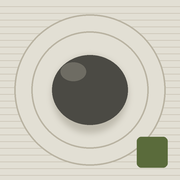
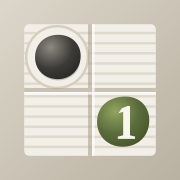
アイコンを石と苔石の盤面に描き直し、「砂を均す」ボタンを削除
- icon.svg / icon-192 / icon-512 / maskable / apple-touch-icon を新デザインに差し替え
- 「砂を均す」ボタンと処理・説明文を削除し、スマホの道具欄を4列に
- インラインスクリプト変更に合わせてCSPのハッシュを更新
- service worker のキャッシュ名を v15 に更新

Claude-Session: https://claude.ai/code/session_01UMforfYq9WVsmKnawKrVXK

diff --git a/index.html b/index.html
@@ -3,7 +3,7 @@
 <head>
 <meta charset="utf-8">
 <meta name="viewport" content="width=device-width,initial-scale=1,viewport-fit=cover">
-<meta http-equiv="Content-Security-Policy" content="default-src 'self'; script-src 'sha256-kA0saZx0/eXsGigQ1LUfOseUjm2kz5fM5gOweCz8D54=' 'sha256-6m2UkkkguhqR6+ykFUPsmwKgebcGYNutMPv6bQDLWUM=' 'sha256-ltzjt/rcC3yGTR6kitQ+BYvtbG0mJyRpSytI21dc3fQ=' 'sha256-+R7pnIRLI8kfmf7xP1w2nuLk8AT3VVh1wG8szeXnAw8='; worker-src 'self' blob:; child-src 'self' blob:; style-src 'self' 'unsafe-inline' https://fonts.googleapis.com; font-src https://fonts.gstatic.com; img-src 'self' data:; connect-src 'self' https://fonts.googleapis.com https://fonts.gstatic.com; manifest-src 'self'; object-src 'none'; base-uri 'none'; form-action 'none'">
+<meta http-equiv="Content-Security-Policy" content="default-src 'self'; script-src 'sha256-kA0saZx0/eXsGigQ1LUfOseUjm2kz5fM5gOweCz8D54=' 'sha256-6m2UkkkguhqR6+ykFUPsmwKgebcGYNutMPv6bQDLWUM=' 'sha256-wQugApye2pwf3+5ialD52HTU8hmzUDu2wc6N5UuWSWg=' 'sha256-+R7pnIRLI8kfmf7xP1w2nuLk8AT3VVh1wG8szeXnAw8='; worker-src 'self' blob:; child-src 'self' blob:; style-src 'self' 'unsafe-inline' https://fonts.googleapis.com; font-src https://fonts.gstatic.com; img-src 'self' data:; connect-src 'self' https://fonts.googleapis.com https://fonts.gstatic.com; manifest-src 'self'; object-src 'none'; base-uri 'none'; form-action 'none'">
 <meta name="referrer" content="no-referrer">
 <meta name="description" content="苔の数字を手がかりに、庭に石を据える論理パズル。どの問題も推理だけで解けます。">
 <meta name="theme-color" content="#fbfaf7">
@@ -332,7 +332,7 @@ aside p{margin:0}
   .veil.solid{inset:6px}
   .coords-top{padding-inline:6px}
   .coords-right{padding-block:6px}
-  .tools{flex-shrink:0;display:grid;grid-template-columns:1.25fr 1fr 1fr 1.1fr 1fr;gap:5px}
+  .tools{flex-shrink:0;display:grid;grid-template-columns:1.25fr 1fr 1fr 1.1fr;gap:5px}
   .tools .btn{font-size:13px;padding:0 2px;min-height:46px;justify-content:center;gap:5px;white-space:nowrap;letter-spacing:.02em}
   .tools .btn.two{gap:1px}
   .tools .btn{font-size:12.5px;letter-spacing:0}
@@ -412,7 +412,6 @@ button{touch-action:manipulation}
       <button class="btn" id="undoBtn" title="一手戻す (Z)">一手戻す <kbd>Z</kbd></button>
       <button class="btn two" id="pauseBtn" title="パズルを一時停止 (P)"><span>休憩</span><small>パズルを一時停止</small></button>
       <button class="btn two" id="hintBtn" title="次に推理できる一手を教わる"><span>教えを乞う</span><small>ヒントを貰う</small></button>
-      <button class="btn two" id="resetBtn" title="盤上の印をすべて消す"><span>砂を均す</span><small>印を全消し</small></button>
     </div>
   </main>
 
@@ -474,7 +473,7 @@ button{touch-action:manipulation}
         <div class="sw"><div class="d"></div></div><span>右クリック、または「印」モードで「石なし」の印。なぞると続けて付けられます</span>
         <div class="sw c">3</div><span>石が数ぶん揃うと薄くなり、多すぎると赤くなる</span>
       </div>
-      <p class="small" style="margin-top:8px">「砂を均す」は盤上の印をすべて消します（石はそのまま）。<br>「一手戻す」で元に戻せます。<br>「休憩」を押すと、盤面を隠してタイマーを止められます。</p>
+      <p class="small" style="margin-top:8px">「一手戻す」で直前の操作を元に戻せます。<br>「休憩」を押すと、盤面を隠してタイマーを止められます。</p>
       <p class="small" style="margin-top:8px">盤の上と右の小さな丸は、その列・行に置いた石の数です。</p>
       <p class="small" style="margin-top:4px">マスの呼び方は将棋盤と同じです。<br>上の数字が列（右から1、2…）、右の漢数字が行（上から一、二…）で、<br>「1二」は右端の列の上から2マス目です。</p>
     </section>
@@ -1290,10 +1289,6 @@ function pauseGame(){
   $('resumeBtn').onclick=()=>{S.started=true;hideVeil();startClock();};
 }
 $('pauseBtn').onclick=pauseGame;
-// 砂を均す: rake away every mark; stones stay where they are
-$('resetBtn').onclick=()=>{if(!S||S.done||!S.started)return;const ch=[];S.cells.forEach((v,i)=>{if(v===2)ch.push([i,0]);});
-  if(ch.length){apply(ch);Sound.play('new');setMsg('印をすべて消しました。「一手戻す」で元に戻せます。');}
-  else{Sound.play('tap');setMsg('消す印がありません。');}};
 let msgTimer=null;
 // Japanese has no spaces, so a narrow screen would break a line anywhere. Each sentence (ends in 。)
 // and each phrase inside it (ends in 、 or ：) is an inline-block: a line breaks between sentences
@@ -1460,10 +1455,10 @@ function openIntro(){if(intro.open)return;try{intro.showModal();}catch(e){intro.
 intro.addEventListener('close',()=>store.set('sekitei:intro',1));
 function closeIntro(){store.set('sekitei:intro',1);if(intro.open)intro.close();else intro.removeAttribute('open');}
 $('introGo').onclick=closeIntro;
-// every button sounds like setting a mark; board cells, 教えを乞う, 砂を均す and the 庭の種類 choices keep their own sounds.
+// every button sounds like setting a mark; board cells, 教えを乞う and the 庭の種類 choices keep their own sounds.
 // Bubble phase, so a press that turns 効果音 on is already heard.
 document.addEventListener('click',e=>{const b=e.target.closest&&e.target.closest('button');
-  if(b&&!b.closest('.cell,#hintBtn,#askYes,#resetBtn,.walkSeg,.sizeSeg,.diffSeg'))Sound.play('mark');});$('introX').onclick=closeIntro;
+  if(b&&!b.closest('.cell,#hintBtn,#askYes,.walkSeg,.sizeSeg,.diffSeg'))Sound.play('mark');});$('introX').onclick=closeIntro;
 $('introAgain').onclick=()=>{closeSheet();openIntro();};
 if(store.get('sekitei:intro')!==1)openIntro();
 document.addEventListener('keydown',e=>{

diff --git a/sw.js b/sw.js
@@ -1,5 +1,5 @@
 // 石庭 service worker: lets the game open offline after the first visit.
-const CACHE='sekitei-v14';
+const CACHE='sekitei-v15';
 const CORE=['./','index.html','manifest.webmanifest','icon.svg','icon-192.png','icon-512.png','apple-touch-icon.png','audio/sounds.json'];
 self.addEventListener('install',e=>{e.waitUntil(caches.open(CACHE).then(c=>c.addAll(CORE)).then(()=>self.skipWaiting()));});
 self.addEventListener('activate',e=>{e.waitUntil(caches.keys().then(ks=>Promise.all(ks.filter(k=>k!==CACHE).map(k=>caches.delete(k)))).then(()=>self.clients.claim()));});
